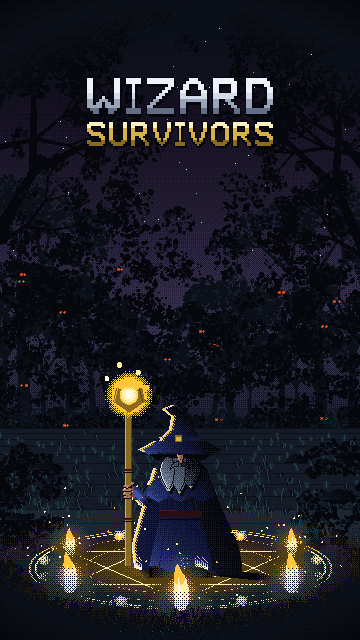
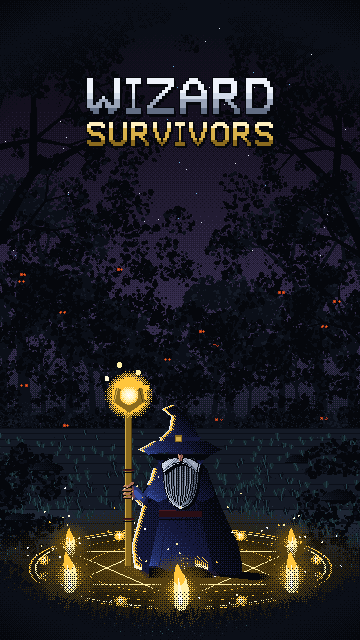
art: a long round striped beard, from the reference
Rebuilt to the shape in the reference: a half-width table from the jaw to
the tip, widest just under the moustache, holding that width for a third
of its length and closing in a rounded tip rather than a fork. It runs
eleven units now, past the mantle hem and most of the way to the sash -
roughly twice every earlier version, and length turns out to be most of
what makes it read as a wizard beard rather than a full one.

Thirteen hairline partings follow the taper down, a lit strand beside
every other one, the middle ones hanging longest. Four thick lines read as
a grille and five fat capsules read as dreadlocks; the count and the
weight are the whole difference.

The moustache goes back over the top, lighter than the beard and wider
than it, thin under the nose and heavy at the drooping ends.

Nose smaller and symmetrical about the centre line - off-centre and a unit
longer, the same triangle reads as a beak.

Changed region(s): [[0.4278, 0.6875, 0.55, 0.8125]]

diff --git a/tools/art/hero.py b/tools/art/hero.py
@@ -234,33 +234,42 @@ def _hood(c, cx, yb, u, r):
                  [OCC, OCC, OCC, r[4], r[3]], ang=1.5708, gamma=0.8)
 
 
-# The beard is drawn as a stylised thing, not a simulated one: one bold outline, three large
-# planes inside it, and a hard dark line along every seam. The two versions before this were
-# both attempts at the real object - five tapering locks, then a field of scattered tufts - and
-# both spent all their detail on texture the eye cannot resolve at this size while leaving the
-# silhouette soft. What carries at 150px is the shape and the value break, so that is all this
-# spends anything on.
-#
-# Three lobes, the middle one longest, swept a little right to agree with the cloak. The planes
-# tile the outline exactly; the seams between them are drawn afterwards in occlusion.
-_BEARD = [(-2.90, -23.70), (-3.90, -22.55), (-4.30, -20.90), (-4.05, -19.20),
-          (-3.35, -17.75), (-2.55, -16.45),
-          (-1.55, -18.10), (-0.30, -15.95),
-          (1.05, -18.30), (2.15, -17.05),
-          (3.15, -18.95), (3.90, -20.65), (4.05, -22.25), (3.40, -23.40), (2.85, -23.70)]
+# The beard from the reference: long, round and striped, not lobed. t runs 0 at the jaw to 1
+# at the tip; the table is half-width at t. It is widest just under the moustache, holds that
+# width for a third of its length, and closes in a rounded tip. Note how far down it goes -
+# eleven units, past the mantle hem and most of the way to the sash. Every earlier version was
+# about half this length, and length is most of what makes it read as a wizard's beard rather
+# than as a full beard.
+_BEARD_TOP = -23.60
+_BEARD_BOT = -12.90
+_BEARD_PROFILE = [(0.00, 2.55), (0.08, 3.15), (0.22, 3.55), (0.42, 3.52),
+                  (0.60, 3.28), (0.75, 2.86), (0.86, 2.30), (0.94, 1.55),
+                  (1.00, 0.30)]
+_STRANDS = 13
 
-_PLANE_L = [(-1.70, -23.62), (-2.90, -23.70), (-3.90, -22.55), (-4.30, -20.90),
-            (-4.05, -19.20), (-3.35, -17.75), (-2.55, -16.45), (-1.55, -18.10),
-            (-1.28, -20.30)]
-_PLANE_C = [(-1.70, -23.62), (-1.28, -20.30), (-1.55, -18.10), (-0.30, -15.95),
-            (1.05, -18.30), (1.18, -20.60), (1.35, -23.58)]
-_PLANE_R = [(1.35, -23.58), (1.18, -20.60), (1.05, -18.30), (2.15, -17.05),
-            (3.15, -18.95), (3.90, -20.65), (4.05, -22.25), (3.40, -23.40),
-            (2.85, -23.70)]
 
-# The lit contour: which run of _BEARD indices catches the ward. Only the lower left of the
-# beard is turned toward it, and a highlight that goes all the way round is a sticker outline.
-_BEARD_LIT = [1, 2, 3, 4]
+def _bw(t):
+    t = min(1.0, max(0.0, t))
+    for i in range(len(_BEARD_PROFILE) - 1):
+        (t0, w0), (t1, w1) = _BEARD_PROFILE[i], _BEARD_PROFILE[i + 1]
+        if t <= t1:
+            return w0 + (w1 - w0) * (t - t0) / (t1 - t0)
+    return _BEARD_PROFILE[-1][1]
+
+
+def _by(yb, u, t):
+    return yb + (_BEARD_TOP + (_BEARD_BOT - _BEARD_TOP) * t) * u
+
+
+def _beard_pts(cx, yb, u, n=26):
+    left, right = [], []
+    for i in range(n + 1):
+        t = i / float(n)
+        w = _bw(t) * u
+        left.append((cx - w, _by(yb, u, t)))
+        right.append((cx + w, _by(yb, u, t)))
+    right.reverse()
+    return left + right
 
 
 def _outline(c, pts, color, closed=True):
@@ -287,46 +296,48 @@ def _face(c, cx, yb, u, under=None):
     def P(pts):
         return [(cx + a * u, yb + b * u) for (a, b) in pts]
 
-    out = P(_BEARD)
+    out = _beard_pts(cx, yb, u)
     c.poly([(x + 0.50 * u, y + 0.50 * u) for (x, y) in out], OCC)
-    c.poly(out, OCC)
-    # Left to right, light to dark, in three steps rather than a gradient. The ward is below
-    # and to the left, so the near plane is the lit one; a single ramp across the whole beard
-    # gives a smooth mass, and it is the hard step between planes that reads as sculpted.
-    c.poly_shade(P(_PLANE_L), [sk[2], sk[3], sk[4]], ang=-0.7854, bias=0.0, gamma=0.70)
-    c.poly_shade(P(_PLANE_C), [sk[3], sk[4]], ang=-0.7854, bias=0.0, gamma=0.72)
-    c.poly_shade(P(_PLANE_R), [sk[4], OCC], ang=-0.7854, bias=0.0, gamma=0.85)
-    # every seam, inside and out, gets the same dark line: it is what makes the planes planes
+    c.poly_shade(out, [sk[2], sk[3], sk[4]], ang=-0.7854, bias=0.0, gamma=0.58)
+    # Strands: many fine partings, each with a lit strand beside it, following the taper down.
+    # Four thick lines read as a grille and five fat capsules read as dreadlocks; thirteen
+    # hairlines across thirty pixels read as hair, which is the whole difference.
+    for i in range(1, _STRANDS):
+        f = -1.0 + 2.0 * i / float(_STRANDS)
+        tend = 0.78 + 0.20 * (1.0 - abs(f))       # the middle of the beard hangs longest
+        prev = None
+        for k in range(13):
+            t = 0.04 + (tend - 0.04) * k / 12.0
+            p = (cx + f * _bw(t) * u, _by(yb, u, t))
+            if prev:
+                c.line(prev[0], prev[1], p[0], p[1], OCC)
+                if i % 2:
+                    c.line(prev[0] - 1, prev[1], p[0] - 1, p[1], sk[2])
+            prev = p
     _outline(c, out, OCC)
-    _outline(c, P([(-1.70, -23.62), (-1.28, -20.30), (-1.55, -18.10)]), OCC, closed=False)
-    _outline(c, P([(1.35, -23.58), (1.18, -20.60), (1.05, -18.30)]), OCC, closed=False)
-    # the ward along the lower left contour, one pixel in from the keyline
-    for i in _BEARD_LIT:
-        a, b = out[i], out[i + 1]
-        c.line(a[0] + 1, a[1], b[0] + 1, b[1], sk[1])
+    # the ward along the lower contour, one pixel in from the keyline
+    for i in range(len(out) - 1):
+        ax, ay = out[i]
+        bx, by_ = out[i + 1]
+        if ay > _by(yb, u, 0.58) and ax < cx:
+            c.line(ax + 1, ay, bx + 1, by_, sk[1])
     if under:
-        for i in (5, 7, 9):
-            c.disc(out[i][0], out[i][1] - 0.40 * u, 0.24 * u, 0.22 * u, sk[2])
-            c.set(int(out[i][0]), int(out[i][1] - 0.10 * u), under[3])
-    # Moustache: two swept wedges, keylined like everything else.
-    for sgn in (-1, 1):
-        m = P([(sgn * 0.28, -22.85), (sgn * 1.15, -22.60), (sgn * 1.85, -21.90),
-               (sgn * 2.00, -21.00), (sgn * 1.50, -21.45), (sgn * 0.85, -21.70),
-               (sgn * 0.28, -21.75)])
-        c.poly(m, OCC)
-        # Dark, not pale. Every lighter version of this - horizontal wings, then a shorter
-        # band - read as a collar across the top of the beard. A moustache one step DOWN from
-        # the plane it lies on reads as relief instead of as an object laid on top.
-        c.poly_shade(m, [sk[3], sk[4]] if sgn < 0 else [sk[4], OCC],
-                     ang=-0.7854, bias=0.0, gamma=0.80)
-        _outline(c, m, OCC)
-    # A small pointed wedge, and no modelling on it. The bulb it replaces was round and read as
-    # a nose, but a round nose is a kindly one; the point is what makes it a wizard's.
-    # Three points, not five: at five pixels across, an intermediate vertex on each side is a
-    # rounding the grid cannot express, and the shape came out a square block with a notch in
-    # it. A straight taper to a single apex is the only version of this that reads as pointed,
-    # and the modelling has to be edge lines rather than planes for the same reason.
-    nose = P([(-0.56, -24.30), (0.46, -24.30), (-0.02, -22.45)])
+        c.disc(cx, _by(yb, u, 0.99), 0.5 * u, 0.34 * u, sk[1])
+        c.set(int(cx), int(_by(yb, u, 1.0)), under[3])
+    # A busy moustache over the top of it: thin under the nose, heavy and drooping at the ends,
+    # and lighter than the beard so it reads as the nearer thing. It carries its own partings.
+    m = P([(-3.95, -22.25), (-2.70, -23.15), (-1.15, -23.50), (0.00, -23.45),
+           (1.15, -23.50), (2.70, -23.15), (3.95, -22.25),
+           (3.70, -20.55), (2.75, -21.35), (1.40, -22.20), (0.00, -22.55),
+           (-1.40, -22.20), (-2.75, -21.35), (-3.70, -20.55)])
+    c.poly([(x + 0.55 * u, y + 0.55 * u) for (x, y) in m], OCC)
+    c.poly_shade(m, [sk[1], sk[2]], ang=-0.7854, bias=0.0, gamma=0.85)
+    _outline(c, m, OCC)
+    for (a, b) in [(-0.55, -3.05), (-1.20, -3.40), (0.55, 3.05), (1.20, 3.40)]:
+        c.line(cx + a * u, yb - 23.15 * u, cx + b * u, yb - 21.05 * u, sk[3])
+    # Small and symmetrical: a straight taper to an apex on the centre line. Off-centre and a
+    # unit longer, the same shape reads as a beak, which is a different character entirely.
+    nose = P([(-0.42, -24.20), (0.42, -24.20), (0.00, -23.00)])
     c.poly([(x + 1, y + 1) for (x, y) in nose], OCC)
     c.poly(nose, s[2])
     c.line(nose[0][0], nose[0][1], nose[2][0], nose[2][1], s[1])

diff --git a/.ai/title-screen.md b/.ai/title-screen.md
@@ -147,25 +147,30 @@ bushier field of the same — all tried to be the real object, and all spent the
 texture the eye cannot resolve at 150px while leaving the silhouette soft. What carries at this
 size is shape and value break, so that is all either of them spends anything on.
 
-The nose is **a triangle**: a straight taper from a five-pixel top edge to a single apex, filled
-flat, with one edge line light and the other dark. A bulb was tried (three concentric discs) and
-so was a five-point wedge; at five pixels across, an intermediate vertex on each side is a
-rounding the pixel grid cannot express, and the wedge came out a square block with a notch in it.
-Modelling has to be edge lines rather than planes for the same reason.
+The nose is **a small symmetrical triangle**: a straight taper from a four-pixel top edge to an
+apex on the centre line, filled flat, with one edge line light and the other dark. A bulb was
+tried (three concentric discs) and so was a five-point wedge; at four or five pixels across, an
+intermediate vertex on each side is a rounding the pixel grid cannot express, and the wedge came
+out a square block with a notch in it. Modelling has to be edge lines rather than planes for the
+same reason. Off-centre and a unit longer, the same shape reads as a beak — a different
+character entirely.
 
 The beard is `skin`, the bone/pallor row — white hair and old bone are the same material in this
-palette — and it is one bold outline, **three large planes** inside it, and a hard `occ` line
-along every seam, inside and out:
+palette — and it is **long, round and striped**:
 
-- **Three lobes, the middle one longest**, swept slightly right to agree with the cloak.
-- **Left to right, light to dark, in three steps rather than a gradient.** The ward is below and
-  to the left, so the near plane is the lit one. A single ramp across the whole beard gives a
-  smooth mass; it is the hard step between planes that reads as sculpted.
-- **A bone highlight along the lower-left contour only.** Run all the way round it is a sticker
-  outline; the notch between two lobes is not a lit edge and must be left out of the run.
-- **The moustache is darker than the plane it lies on.** Every lighter version — horizontal
-  wings, then a shorter band — read as a collar laid across the top of the beard. One step down
-  in value reads as relief.
+- **`_BEARD_PROFILE` is a half-width table**, `t=0` at the jaw to `t=1` at the tip: widest just
+  under the moustache, holding that width for a third of its length, closing in a rounded tip
+  rather than a fork.
+- **Length is most of the read.** It runs eleven units, past the mantle hem and most of the way
+  to the sash. Every version before it was about half that, and a half-length beard reads as a
+  full beard rather than as a wizard's.
+- **Thirteen hairline partings**, each following the taper down, with a lit strand beside every
+  other one and the middle ones hanging longest. Four thick lines read as a grille and five fat
+  capsules read as dreadlocks; the count and the weight are what separate hair from both.
+- **The moustache is lighter than the beard and wider than it**, thin under the nose and heavy
+  and drooping at the ends, over a deep occlusion drop. It went the other way once — a dark
+  moustache reads as relief in the beard, which is right only when the beard is the subject; as
+  a thing in its own right it has to sit in front and above.
 
 There is also **no clasp at the throat** any more. A gold disc sat there, and under the hood
 shadow with nothing else below it, a warm rounded shape at chin height reads as a chin.
